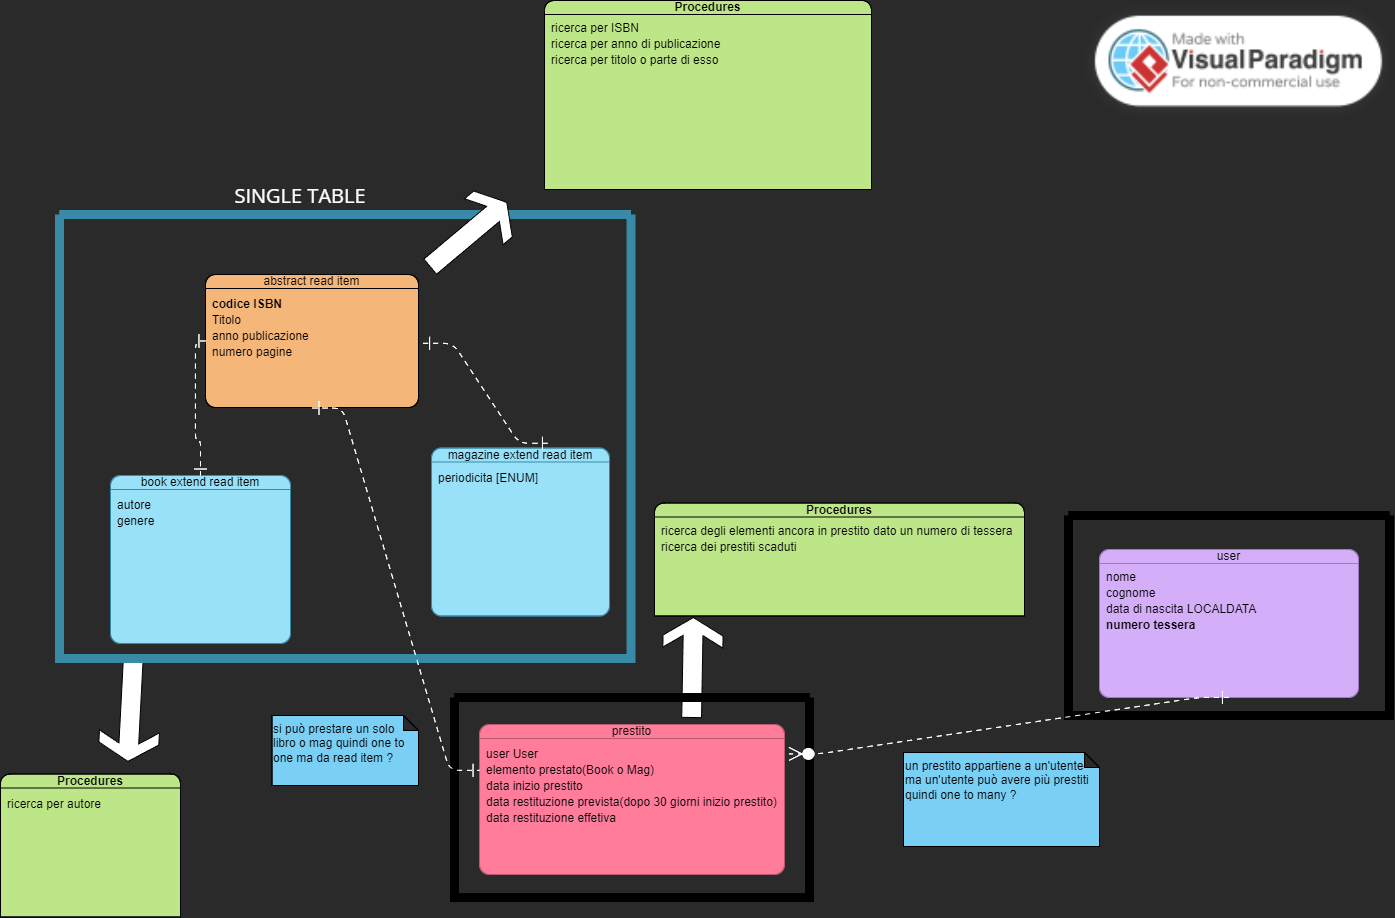
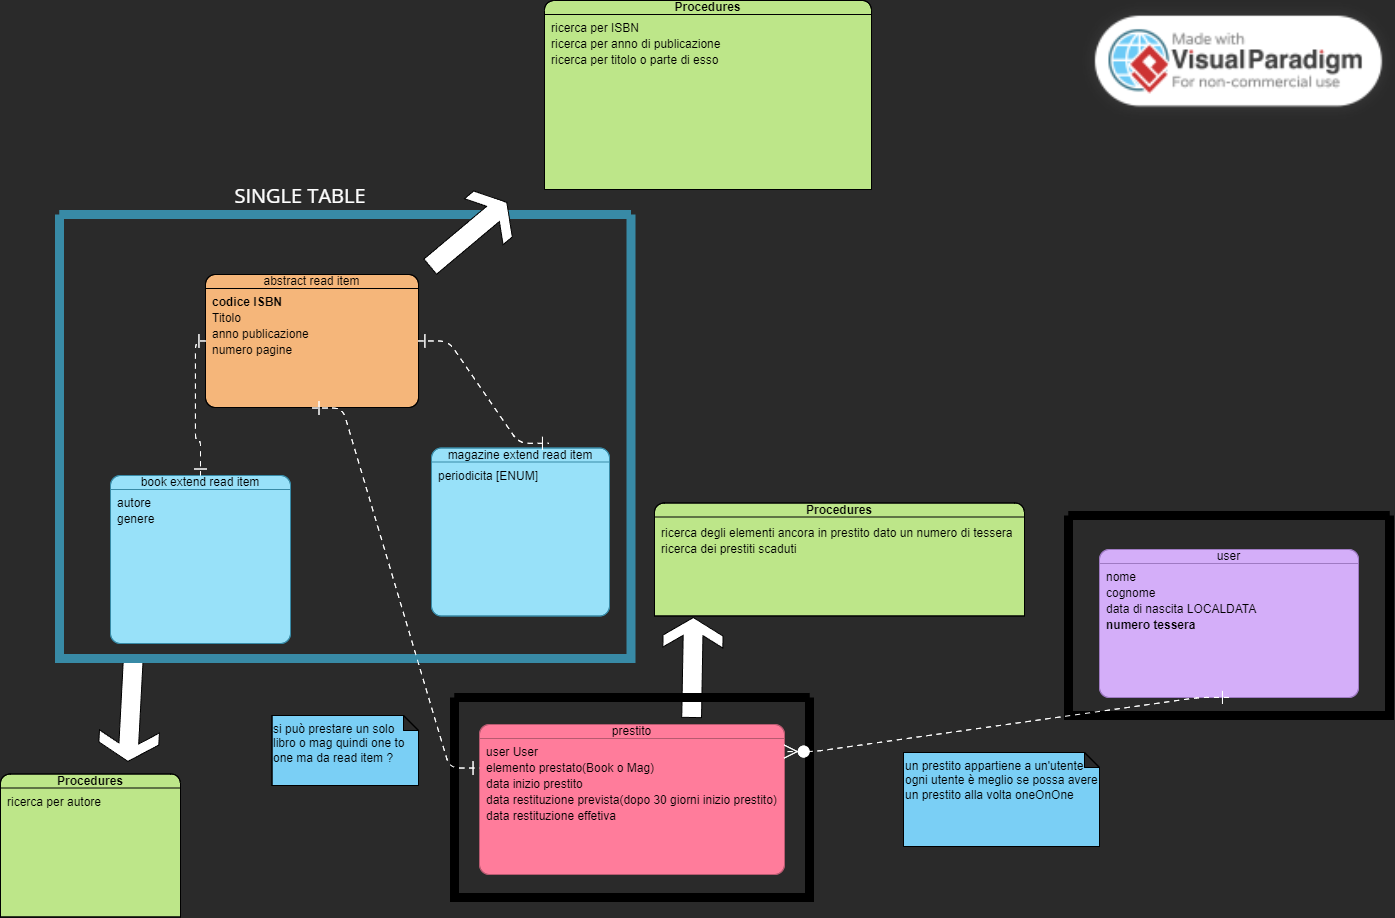
possibilita di filtrare i prestiti

diff --git a/src/main/java/archiveOperation/PrestiDigitazione.java b/src/main/java/archiveOperation/PrestiDigitazione.java
@@ -1,7 +1,9 @@
 package archiveOperation;
 
 import dao.MaterialDAO;
+import dao.UserDAO;
 import register.Loans;
+import register.User;
 
 import javax.persistence.TypedQuery;
 import java.util.InputMismatchException;
@@ -12,17 +14,25 @@ import static other.Tools.input;
 
 public class PrestiDigitazione {
     public static void prestiti() {
+        UserDAO userDao = new UserDAO(em);
         MaterialDAO matDAO = new MaterialDAO(em);
         try {
             System.out.println("prestiti attuali");
             allLoans().forEach(System.out::println);
+            System.out.println("come vuoi filtrare ? utente o scaduti");
             String loansFromUser = input.nextLine().toLowerCase().trim();
             switch (loansFromUser) {
-
-                case "isbn": {
-
+                case "utente": {
+                    System.out.println("inserisci id utente");
+                    int searchedUserId = input.nextInt();
+                    User prestitoSearcher = userDao.findById(searchedUserId);
+                    System.out.println(prestitoSearcher.getLoans());
+                    break;
                 }
-                case "anno": {
+                case "scaduti": {
+                    List<Loans> deprecatedLoans = deprecatedLoans();
+                    deprecatedLoans.forEach(System.out::println);
+                    break;
 
                 }
 
@@ -41,6 +51,11 @@ public class PrestiDigitazione {
 
     public static List<Loans> allLoans() {
         TypedQuery<Loans> getAllQuery = em.createQuery("SELECT l FROM Loans l", Loans.class);
+        return getAllQuery.getResultList();
+    }
+
+    public static List<Loans> deprecatedLoans() {
+        TypedQuery<Loans> getAllQuery = em.createQuery("SELECT l FROM Loans l WHERE l.effetiva > l.fine", Loans.class);
         return getAllQuery.getResultList();
     }
 

diff --git a/src/main/java/register/Loans.java b/src/main/java/register/Loans.java
@@ -18,7 +18,7 @@ public class Loans {
     private LocalDate fine;
     private LocalDate effetiva;
 
-    @OneToOne(fetch = FetchType.LAZY)
+    @OneToOne(fetch = FetchType.LAZY)// ho scelto di fare un solo prestito per volta ad utente
     private User utente;
 
 
